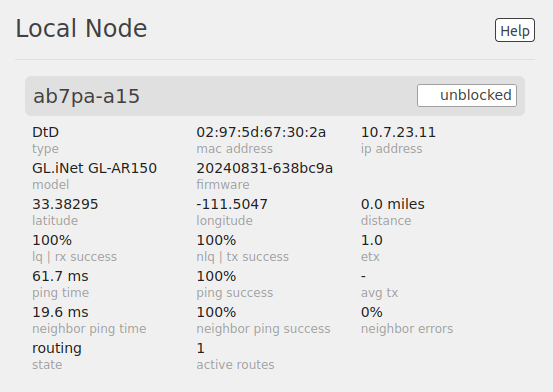
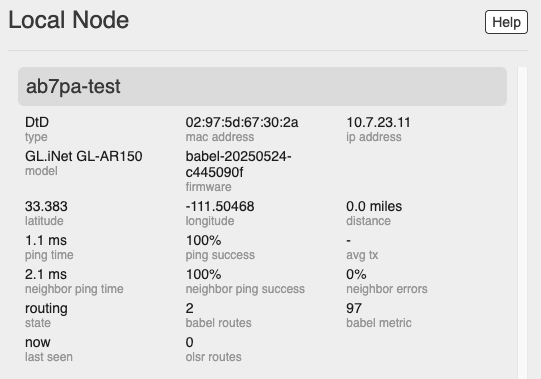
update node metrics sections (#497)

diff --git a/arednGettingStarted/node_admin.rst b/arednGettingStarted/node_admin.rst
@@ -518,39 +518,46 @@ The node name of each Local Node is a clickable link which will navigate to that
  :alt: Admin Local Node Statistics
  :align: center
 
-To the right of the node's name there is a field that shows the current link status. Clicking in this field will display options for handling the link to this node, including the ability to block that node's traffic from reaching your node. The following details may be displayed (if available) for this node's connection to your node -- from top to bottom & left to right:
+The following details may be displayed if available for this node's connection to your node, from top to bottom & left to right:
 
 - :abbr:`type (DTD)`, mac address, and ip address
-- model and firmware version
-- Latitude, Longitude, and Distance
-- :abbr:`lq (link quality or receive success)`, :abbr:`nlq (neighbor link quality or transmit success rate)`, and :abbr:`etx (Expected Transmission metric)`
+- model, firmware version, and link address (IPv6 for Babel)
+- latitude, longitude, and distance
+- rx success rate, rx cost, tx cost
 - ping time, ping success rate, and average packets per second
-- link state and active routes
+- neighbor ping time, ping success rate, and errors
+- link state, number of Babel routes, Babel metric
+- last seen, number of OLSR routes or link uptime
 
 Neighborhood Nodes
 ------------------
 
 As described in the **Node Status** section, this area shows a list of neighbor devices that are directly connected to your node. Context-sensitive help is available by clicking the ``Help`` button.
 
-The node name of each Neighborhood Node is a clickable link which will navigate to that node's status page. When you hover over the row of any Neighborhood Node, a gray background appears which indicates that row is selected. If you click in the selected row (but not directly on the node name link), the **Neighborhood Node** popup will be displayed which provides more detailed information about your node's connection to the selected local node.
+The node name of each Neighborhood Node is a clickable link which will navigate to that node's status page. When you hover over the row of any Neighborhood Node, a gray background appears which indicates that row is selected. If you click in the selected row (but not directly on the node name link), the **Neighborhood Node** popup will be displayed which provides more detailed information about your node's connection to the selected local node. This provides an excellent troubleshooting tool for diagnosing issues with node connections, especially via RF.
 
 .. image:: _images/admin-neighbornode.png
  :alt: Admin Neighbor Node Statistics
  :align: center
 
-To the right of the neighbor node's name there is a field that shows the current link status. Clicking in this field will display options for handling the link to this node. Select ``user block`` if you want to block that node's traffic from reaching your node. The following details may be displayed (if available) for this node's connection to your node -- from top to bottom & left to right:
+The following details may be displayed if available for this node's connection to your node, from top to bottom & left to right:
 
 - :abbr:`type (RF, xlink, tunnel)`, mac address, and ip address
-- Latitude, Longitude, and Distance
-- :abbr:`lq (link quality or receive success)`, :abbr:`nlq (neighbor link quality or transmit success rate)`, and :abbr:`etx (Expected Transmission metric)`
+- model, firmware version, and link address (IPv6 for Babel)
+- latitude, longitude, and distance
+- rx success rate, rx cost, tx cost
 - ping time, ping success rate, and average packets per second
-- neighbor ping time, ping success, errors
+- neighbor ping time, ping success rate, errors
 - local :abbr:`snr (signal to noise ratio)`, neighbor snr, and transmit failure rate
 - physical receive bitrate, physical transmit bitrate, and retransmissions
-- link state and active routes
-- For RF nodes there is a graph of the signal level and noise floor on this link over the last hour of history (approximately). Hovering over the graph lines will display the instantaneous values which were plotted at each point on the graph.
+- link state, active routes, Babel metric
+- last seen, number of OLSR routes or link uptime
 
-This provides an excellent troubleshooting tool for diagnosing issues with node connections, especially via RF.
+.. image:: _images/admin-neighbornode-graph.png
+ :alt: Admin Neighbor Node Graph
+ :align: center
+
+For RF nodes there is a graph of the signal level and noise floor on this link over the last hour of history (approximately). Hovering over the graph lines will display the instantaneous values which were plotted at each point on the graph. If available, a map showing the location of the node will be displayed below the graph.
 
 You can click the ``Cancel`` button to ignore any changes you made on this display. When you are finished with your changes, click the ``Done`` button. You will then be returned to your node's *admin* view where you will be able to ``Commit`` or ``Revert`` any changes.
 

diff --git a/arednGettingStarted/installing_firmware.rst b/arednGettingStarted/installing_firmware.rst
@@ -371,17 +371,19 @@ The node will automatically reboot after installing AREDN®, and you may need to
 MorseMicro first install process
 --------------------------------
 
-Download the *Install Checklist* for **MorseMicro** devices. These devices allow you to use the manufacturer's pre-installed *OpenWRT* web interface to upload and apply new firmware images. This device provides DHCP services, so you should be able to connect your computer to its LAN port to automatically receive an IP address on the correct subnet. *MorseMicro* devices should have a default IP address of 192.168.1.1, so if for some reason you need to give your computer a static IP address you can use the 192.168.1.x/24 subnet.
+Download the *Install Checklist* for **MorseMicro** devices. These devices allow you to use the manufacturer's pre-installed *OpenWRT* web interface to upload and apply new firmware images. This device provides DHCP services, so you should be able to connect your computer to its LAN port to automatically receive an IP address on the correct subnet.
 
-- Cable your computer’s Ethernet port to the radio's LAN port. Power on the *MorseMicro* device and verify that your computer received an IP address from the device’s DHCP service. Verify that you can ping the device at 192.168.1.1.
+- Cable your computer’s Ethernet port to the radio's LAN port. Power on the *MorseMicro* device and verify that your computer received an IP address from the device’s DHCP service.
 
-- Open a web browser and navigate to ``http://192.168.1.1``. On a fresh device you can login using the default *root* username with an empty password field. If you have already changed the *root* password, then login using your own password.
+- Open a web browser and navigate to ``http://192.168.x.1`` where ``x`` is the subnet on which your computer IP address was provided. On a fresh device you can login using the default username and password shown in your device's instructions. If you have already changed the password, then login using your own password.
 
-- Navigate to ``Advanced Config`` > ``Upgrade``
+- Navigate to ``System`` > ``Backup/Flash Firmware`` and go to ``Flash new firmware image``
 
-- Go to ``Manually upload firmware file`` and select the AREDN® *sysupgrade.bin* file you previously downloaded to your computer
+- **UNCHECK** the ``Keep settings`` checkbox
 
-- **UNCHECK** the ``Keep settings`` checkbox, then click ``Update firmware`` to flash the AREDN® firmware
+-  Click ``Choose File`` to select the AREDN® *sysupgrade.bin* file you previously downloaded to your computer
+
+- Click ``Flash image`` to upload the AREDN® firmware
 
 The node will automatically reboot after installing AREDN®, and you may need to refresh your network interface to receive a new IP address before continuing.
 
